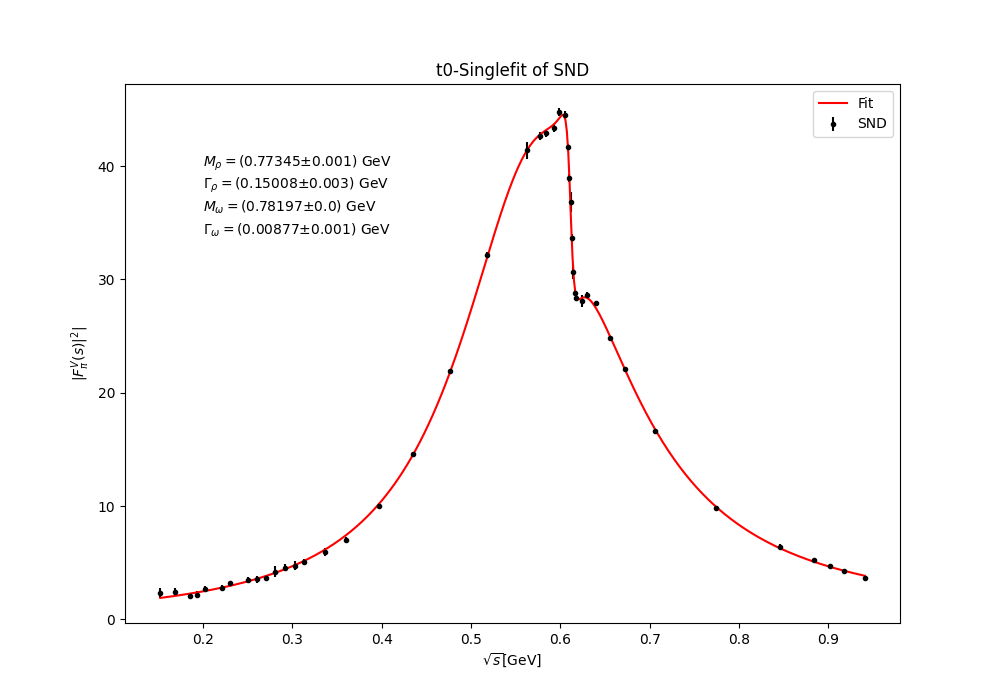
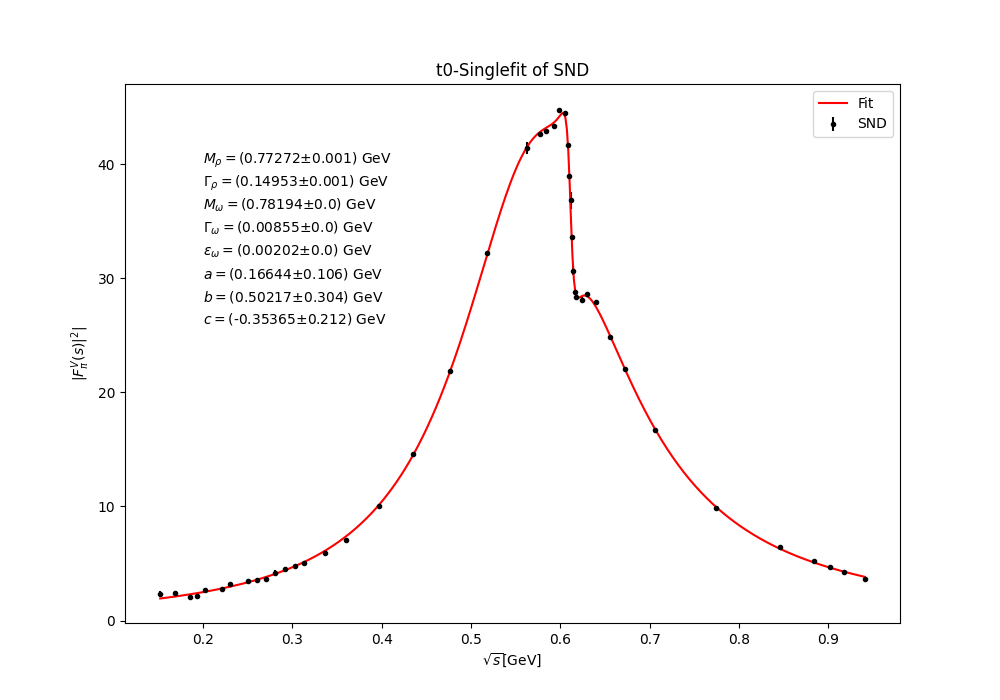
correted model function from c*(1 + a*s + b*s**2) to 1 + a*s + b*s**2 + c*s**3'

diff --git a/sesh1/prog/t0-method/model.py b/sesh1/prog/t0-method/model.py
@@ -13,7 +13,7 @@ g_s = lambda s, m_q, g_q: g_q*s/m_q**2 * (sig_p(s)/sig_p(m_q**2))**3 * sp.Heavis
 def model(s, m_q, g_q, m_w, g_w, e_w, a, b, c):
     part1 = (m_q)**4/((m_q**2 - s)**2 + m_q**2*g_s(s, m_q, g_q)**2)
     part2 = 1 + (e_w * 2*s * (m_w**2 - s))/((m_w**2 - s)**2 + m_w**2*g_w**2)
-    part3 = c*(1 + a*s + b*s**2)**2
+    part3 = (1 + a*s + b*s**2 + c*s**3)**2
     return part1 * part2 * part3
 
 
@@ -38,6 +38,10 @@ def my_plot(name, x_data, y_data, p, dp, sigma):
     plt.annotate(r'$\Gamma_{\rho} = $' + f'({p[1]}' + r'$\pm$' + f'{dp[1]}) GeV', (0.2, 38))
     plt.annotate(r'$M_{\omega} = $' + f'({p[2]}' + r'$\pm$' + f'{dp[2]}) GeV', (0.2, 36))
     plt.annotate(r'$\Gamma_{\omega} = $' + f'({p[3]}' + r'$\pm$' + f'{dp[3]}) GeV', (0.2, 34))
+    plt.annotate(r'$\epsilon_{\omega} = $' + f'({p[4]}' + r'$\pm$' + f'{dp[4]}) GeV', (0.2, 32))
+    plt.annotate(r'$a = $' + f'({p[5]}' + r'$\pm$' + f'{dp[5]}) GeV', (0.2, 30))
+    plt.annotate(r'$b = $' + f'({p[6]}' + r'$\pm$' + f'{dp[6]}) GeV', (0.2, 28))
+    plt.annotate(r'$c = $' + f'({p[7]}' + r'$\pm$' + f'{dp[7]}) GeV', (0.2, 26))
 
     plt.title(f't0-Singlefit of {name}')
     plt.legend(loc='best')

diff --git a/sesh1/prog/t0-method/multiple_fit.py b/sesh1/prog/t0-method/multiple_fit.py
@@ -77,6 +77,11 @@ def main():
     plt.annotate(r'$\Gamma_{\rho} = $' + f'({p[1]}' + r'$\pm$' + f'{dp[1]}) GeV', (0.1, 38))
     plt.annotate(r'$M_{\omega} = $' + f'({p[2]}' + r'$\pm$' + f'{dp[2]}) GeV', (0.1, 36))
     plt.annotate(r'$\Gamma_{\omega} = $' + f'({p[3]}' + r'$\pm$' + f'{dp[3]}) GeV', (0.1, 34))
+    plt.annotate(r'$\epsilon_{\omega} = $' + f'({p[4]}' + r'$\pm$' + f'{dp[4]}) GeV', (0.1, 32))
+    plt.annotate(r'$a = $' + f'({p[5]}' + r'$\pm$' + f'{dp[5]}) GeV', (0.1, 30))
+    plt.annotate(r'$b = $' + f'({p[6]}' + r'$\pm$' + f'{dp[6]}) GeV', (0.1, 28))
+    plt.annotate(r'$c = $' + f'({p[7]}' + r'$\pm$' + f'{dp[7]}) GeV', (0.1, 26))
+
 
     plt.title('t0-Multifit')
     plt.legend(loc='best')

diff --git a/sesh1/prog/standard-method/model.py b/sesh1/prog/standard-method/model.py
@@ -12,7 +12,7 @@ g_s = lambda s, m_q, g_q: g_q*s/m_q**2 * (sig_p(s)/sig_p(m_q**2))**3 * np.heavis
 def model(s, m_q, g_q, m_w, g_w, e_w, a, b, c):
     part1 = (m_q)**4/((m_q**2 - s)**2 + m_q**2*g_s(s, m_q, g_q)**2)
     part2 = 1 + (e_w * 2*s * (m_w**2 - s))/((m_w**2 - s)**2 + m_w**2*g_w**2)
-    part3 = c*(1 + a*s + b*s**2)**2
+    part3 = (1 + a*s + b*s**2 + c*s**3)**2
     return part1 * part2 * part3
 
 def myplot(name, x_data, y_data, p, dp, sigma):

diff --git a/sesh1/prog/t0-method/single_fit.py b/sesh1/prog/t0-method/single_fit.py
@@ -14,7 +14,7 @@ def SND():
     data = np.loadtxt('../data/SND-VFF.txt')
     x_data = data[:, 0]
     y_data = data[:, 1]
-    cov_stat = (np.eye(len(x_data)) * data[:, 2])
+    cov_stat = (np.eye(len(x_data)) * data[:, 2])**2
     cov_relsyst = (np.eye(len(x_data)) * np.array([0.032 if i<=2 else 0.013 for i in range(len(x_data))]))**2
 
     var_str = "m_q g_q m_w g_w e_w a b c"

diff --git a/sesh1/prog/standard-method/standard.py b/sesh1/prog/standard-method/standard.py
@@ -7,7 +7,7 @@ from model import *
 
 
 global p0
-p0 = [0.9, 0.2, 0.81, 0.04, 0.02, -1, 0.84, 1.55]   # in GeV
+p0 = [0.77, 0.15, 0.78, 0.09, 0.0085, 0.002, 0.16, 0.3]   # in GeV
 
 def SND():
     data = np.loadtxt('../data/SND-VFF.txt')
